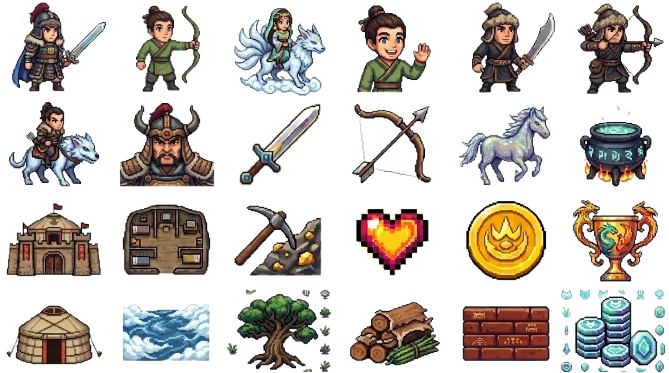
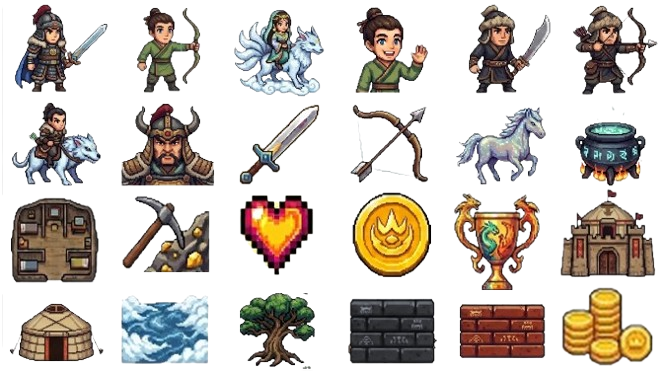
Add files via upload

diff --git a/__城牆競技場 (3).html b/__城牆競技場 (3).html
@@ -29,7 +29,7 @@ h4{margin:0 0 8px;font-size:24px}#farm{display:grid;grid-template-columns:repeat
 </style></head><body><div id="app">
 <div class="hud"><span><i class="ico" style="--px:80%;--py:66.6667%">🏆</i><b id="tr">0</b></span><span><i class="ico" style="--px:100%;--py:66.6667%">🏰</i> 關隘 <b id="st">1</b></span><span>回合 <b id="rd">1</b>/8</span><span id="hp">❤❤❤</span></div>
 <div class="hud" style="margin-top:6px"><span><i class="ico" style="--px:40%;--py:33.3333%">🗡</i> +<b id="fa">0</b>%</span><span><i class="ico" style="--px:100%;--py:33.3333%">🛡</i> +<b id="ba">0</b>%</span><span><i class="ico" style="--px:60%;--py:66.6667%">🪙</i> <b id="gd">0</b> (+<b id="inc">0</b>/回合)</span></div>
-<div class="hud" style="margin-top:6px;justify-content:space-around"><span><i class="ico" style="--px:60%;--py:0%">🤴</i> 黃龍山 <i class="ico" style="--px:80%;--py:66.6667%">🏆</i><b id="tr2"></b></span><span><span class="em">⚔</span> VS <span class="em">⚔</span></span><span><i class="ico" style="--px:20%;--py:33.3333%">👹</i> <b id="fn"></b> <i class="ico" style="--px:80%;--py:66.6667%">🏆</i><b id="ft"></b></span></div>
+<div class="hud" style="margin-top:6px;justify-content:space-around"><span><i class="ico" style="--px:60%;--py:0%">🤴</i> 韓立 <i class="ico" style="--px:80%;--py:66.6667%">🏆</i><b id="tr2"></b></span><span><span class="em">⚔</span> VS <span class="em">⚔</span></span><span><i class="ico" style="--px:20%;--py:33.3333%">👹</i> <b id="fn"></b> <i class="ico" style="--px:80%;--py:66.6667%">🏆</i><b id="ft"></b></span></div>
 <details class="panel story" open><summary>📜 黃龍山之戰・故事背景</summary>
 <p>天南九國盟，幕蘭人大舉入侵，越國七派與各路修士被迫退守黃龍山，與幕蘭展開一場生死之戰。</p>
 <p>你是黃龍山的守山長老，以靈石招募劍修、弓修與靈騎，並在山中興建煉器坊、護山陣與靈石礦，提升戰力與靈石收入。</p>
@@ -74,7 +74,7 @@ const mul=(k)=>1+.1*S.up[k];
 const lvl=()=>(S.stage-1)*8+S.round;
 const income=()=>20+S.up.m*7+lvl()*2;
 const upCost=k=>Math.round(UP[k].b*(1+S.up[k]*.8));
-const NA=['血煞','幽冥','赤煉','玄陰','黑煞','天魔'],NB=['老怪','真人','散人','道人','尊者','魔君'];
+const NA=['血煞','幽冥','赤煉','玄陰','黑煞','天哭'],NB=['法士','真人','築基法士','結丹法士','上師','大上師'];
 let foe={n:'',t:0};
 function newFoe(){foe={n:NA[Math.random()*6|0]+NB[Math.random()*6|0],t:Math.max(0,S.trophies+(Math.random()*40-20|0))}}
 function ui(){

diff --git a/index.html b/index.html
@@ -29,7 +29,7 @@ h4{margin:0 0 8px;font-size:24px}#farm{display:grid;grid-template-columns:repeat
 </style></head><body><div id="app">
 <div class="hud"><span><i class="ico" style="--px:80%;--py:66.6667%">🏆</i><b id="tr">0</b></span><span><i class="ico" style="--px:100%;--py:66.6667%">🏰</i> 關隘 <b id="st">1</b></span><span>回合 <b id="rd">1</b>/8</span><span id="hp">❤❤❤</span></div>
 <div class="hud" style="margin-top:6px"><span><i class="ico" style="--px:40%;--py:33.3333%">🗡</i> +<b id="fa">0</b>%</span><span><i class="ico" style="--px:100%;--py:33.3333%">🛡</i> +<b id="ba">0</b>%</span><span><i class="ico" style="--px:60%;--py:66.6667%">🪙</i> <b id="gd">0</b> (+<b id="inc">0</b>/回合)</span></div>
-<div class="hud" style="margin-top:6px;justify-content:space-around"><span><i class="ico" style="--px:60%;--py:0%">🤴</i> 黃龍山 <i class="ico" style="--px:80%;--py:66.6667%">🏆</i><b id="tr2"></b></span><span><span class="em">⚔</span> VS <span class="em">⚔</span></span><span><i class="ico" style="--px:20%;--py:33.3333%">👹</i> <b id="fn"></b> <i class="ico" style="--px:80%;--py:66.6667%">🏆</i><b id="ft"></b></span></div>
+<div class="hud" style="margin-top:6px;justify-content:space-around"><span><i class="ico" style="--px:60%;--py:0%">🤴</i> 韓立 <i class="ico" style="--px:80%;--py:66.6667%">🏆</i><b id="tr2"></b></span><span><span class="em">⚔</span> VS <span class="em">⚔</span></span><span><i class="ico" style="--px:20%;--py:33.3333%">👹</i> <b id="fn"></b> <i class="ico" style="--px:80%;--py:66.6667%">🏆</i><b id="ft"></b></span></div>
 <details class="panel story" open><summary>📜 黃龍山之戰・故事背景</summary>
 <p>天南九國盟，幕蘭人大舉入侵，越國七派與各路修士被迫退守黃龍山，與幕蘭展開一場生死之戰。</p>
 <p>你是黃龍山的守山長老，以靈石招募劍修、弓修與靈騎，並在山中興建煉器坊、護山陣與靈石礦，提升戰力與靈石收入。</p>
@@ -74,7 +74,7 @@ const mul=(k)=>1+.1*S.up[k];
 const lvl=()=>(S.stage-1)*8+S.round;
 const income=()=>20+S.up.m*7+lvl()*2;
 const upCost=k=>Math.round(UP[k].b*(1+S.up[k]*.8));
-const NA=['血煞','幽冥','赤煉','玄陰','黑煞','天魔'],NB=['老怪','真人','散人','道人','尊者','魔君'];
+const NA=['血煞','幽冥','赤煉','玄陰','黑煞','天哭'],NB=['法士','真人','築基法士','結丹法士','上師','大上師'];
 let foe={n:'',t:0};
 function newFoe(){foe={n:NA[Math.random()*6|0]+NB[Math.random()*6|0],t:Math.max(0,S.trophies+(Math.random()*40-20|0))}}
 function ui(){
